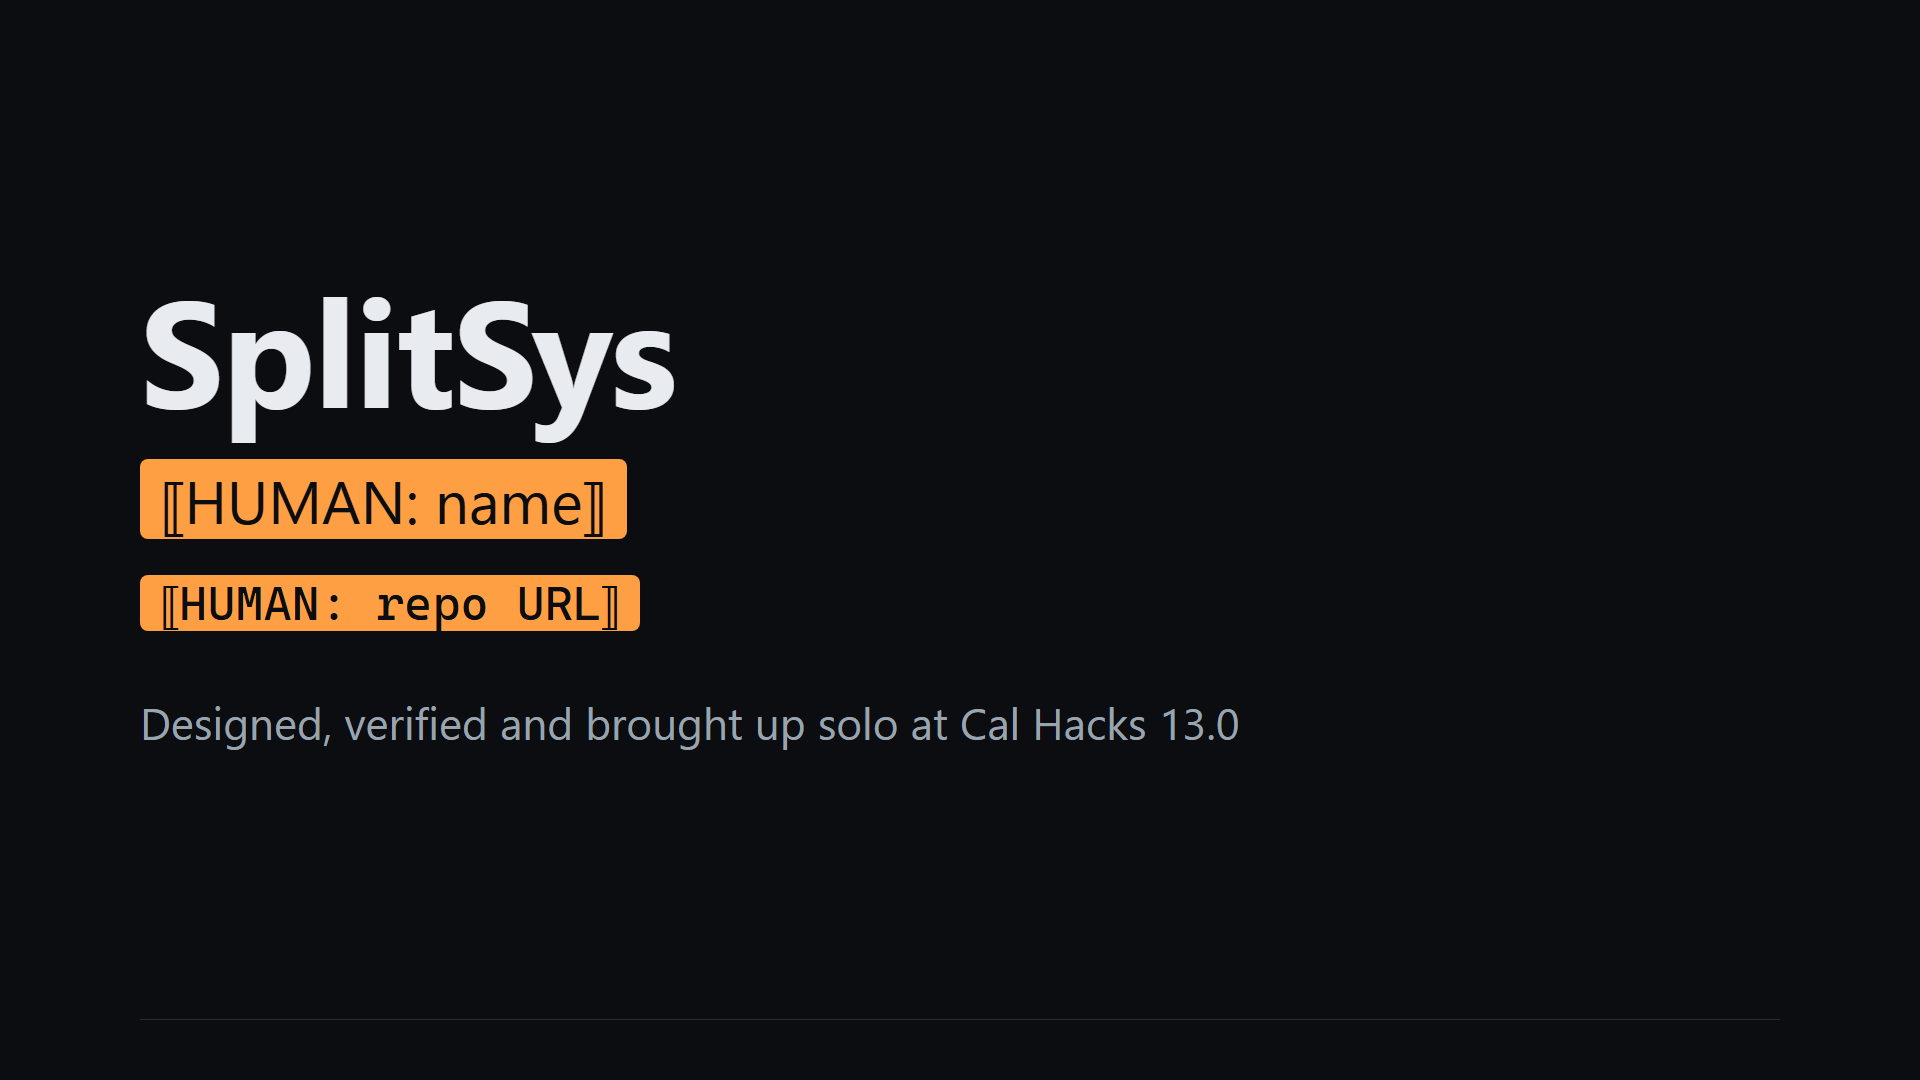
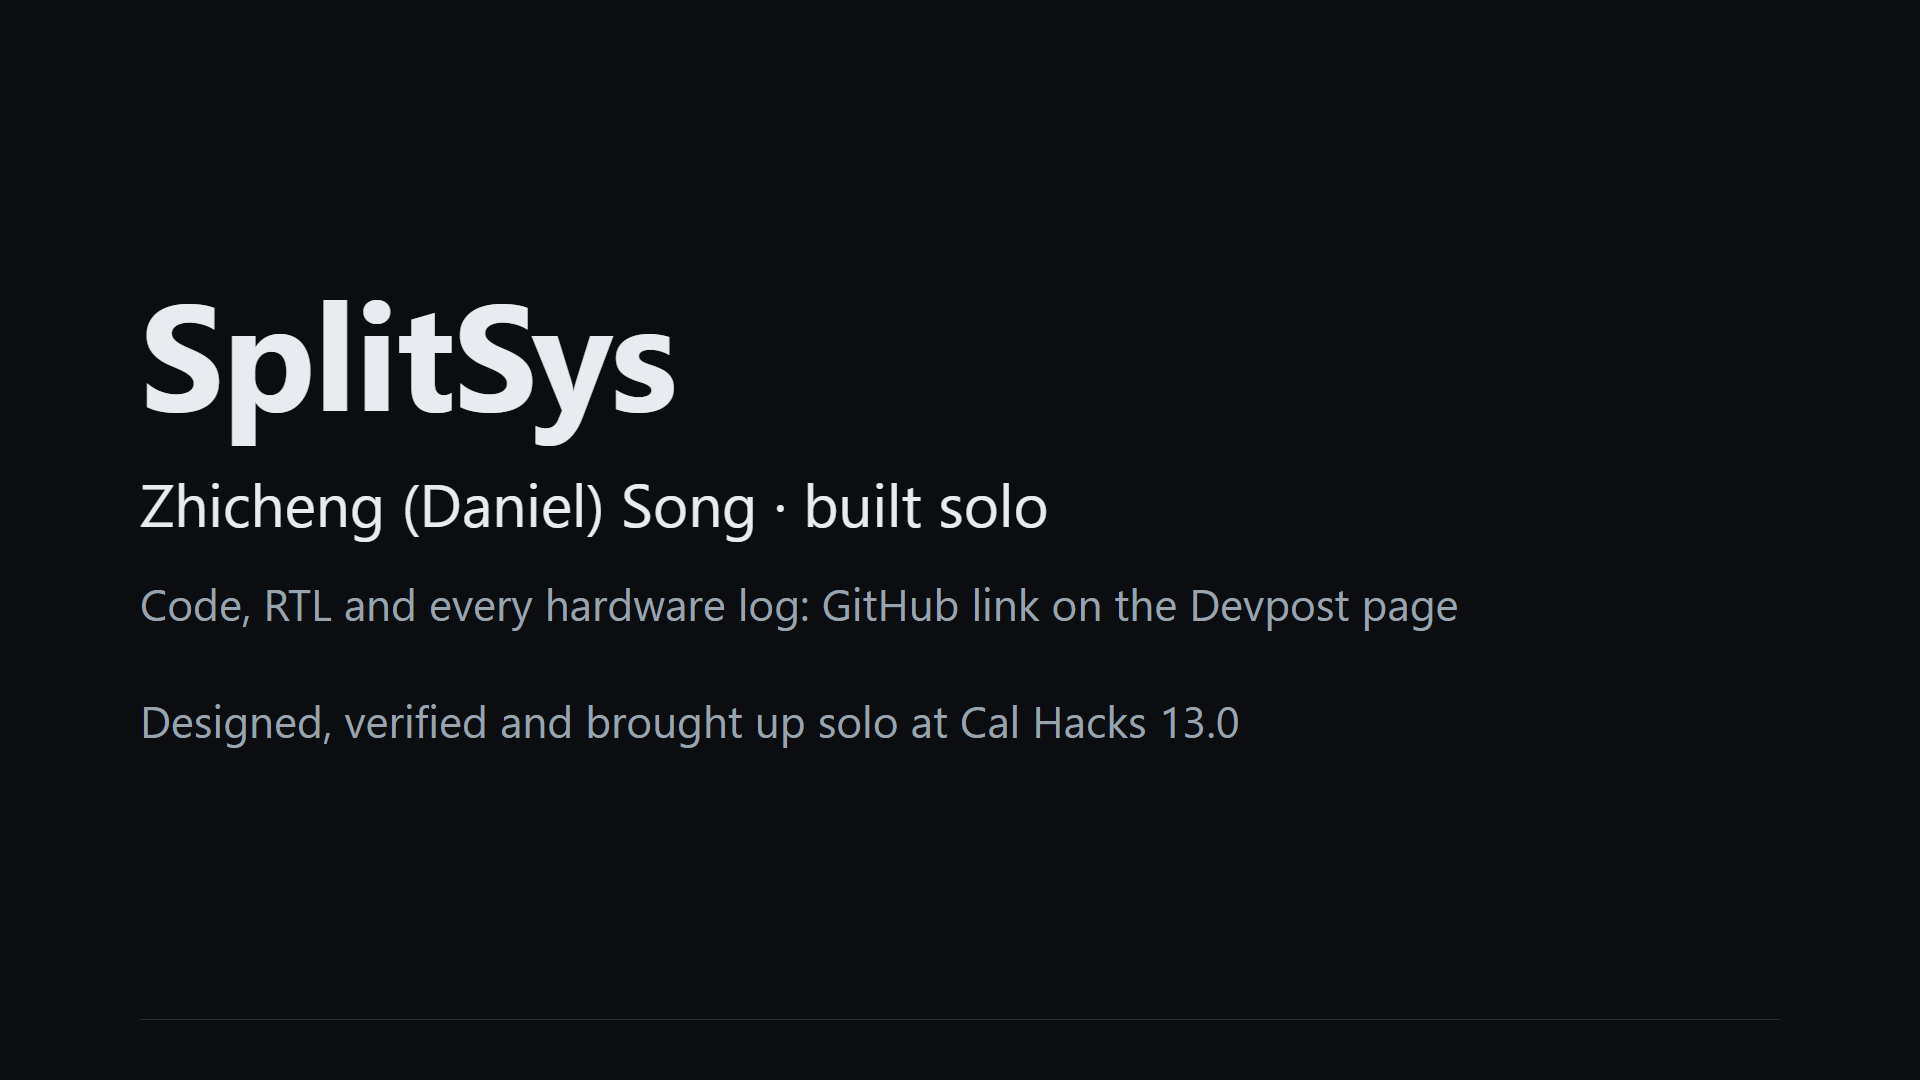
[lead] video end card: Zhicheng (Daniel) Song · built solo; GitHub link via Devpost — n/a

diff --git a/results/plots/video_cards/07_end.html b/results/plots/video_cards/07_end.html
@@ -28,7 +28,7 @@ li:before{content:"";position:absolute;left:0;top:24px;width:22px;height:4px;bac
 .ph{color:#0B0D10;background:#FF9F43;padding:0 18px;border-radius:8px}
 </style></head><body><div class='card'>
 <h1>SplitSys</h1>
-<div class='sub' style='font-size:60px;color:#E8ECF1'><span class='ph'>&#10214;HUMAN: name&#10215;</span></div>
-<div class='sub mono' style='font-size:48px'><span class='ph'>&#10214;HUMAN: repo URL&#10215;</span></div>
+<div class='sub' style='font-size:60px;color:#E8ECF1'>Zhicheng (Daniel) Song · built solo</div>
+<div class='sub' style='font-size:44px'>Code, RTL and every hardware log: GitHub link on the Devpost page</div>
 <div class='sub' style='margin-top:60px'>Designed, verified and brought up solo at Cal Hacks 13.0</div>
 </div><div class='src'></div></body></html>

diff --git a/results/plots/video_cards/make_cards.py b/results/plots/video_cards/make_cards.py
@@ -119,8 +119,8 @@ page("06_limits", """
 # 07 end
 page("07_end", """
 <h1>SplitSys</h1>
-<div class='sub' style='font-size:60px;color:#E8ECF1'><span class='ph'>&#10214;HUMAN: name&#10215;</span></div>
-<div class='sub mono' style='font-size:48px'><span class='ph'>&#10214;HUMAN: repo URL&#10215;</span></div>
+<div class='sub' style='font-size:60px;color:#E8ECF1'>Zhicheng (Daniel) Song · built solo</div>
+<div class='sub' style='font-size:44px'>Code, RTL and every hardware log: GitHub link on the Devpost page</div>
 <div class='sub' style='margin-top:60px'>Designed, verified and brought up solo at Cal Hacks 13.0</div>
 """, "")
 
